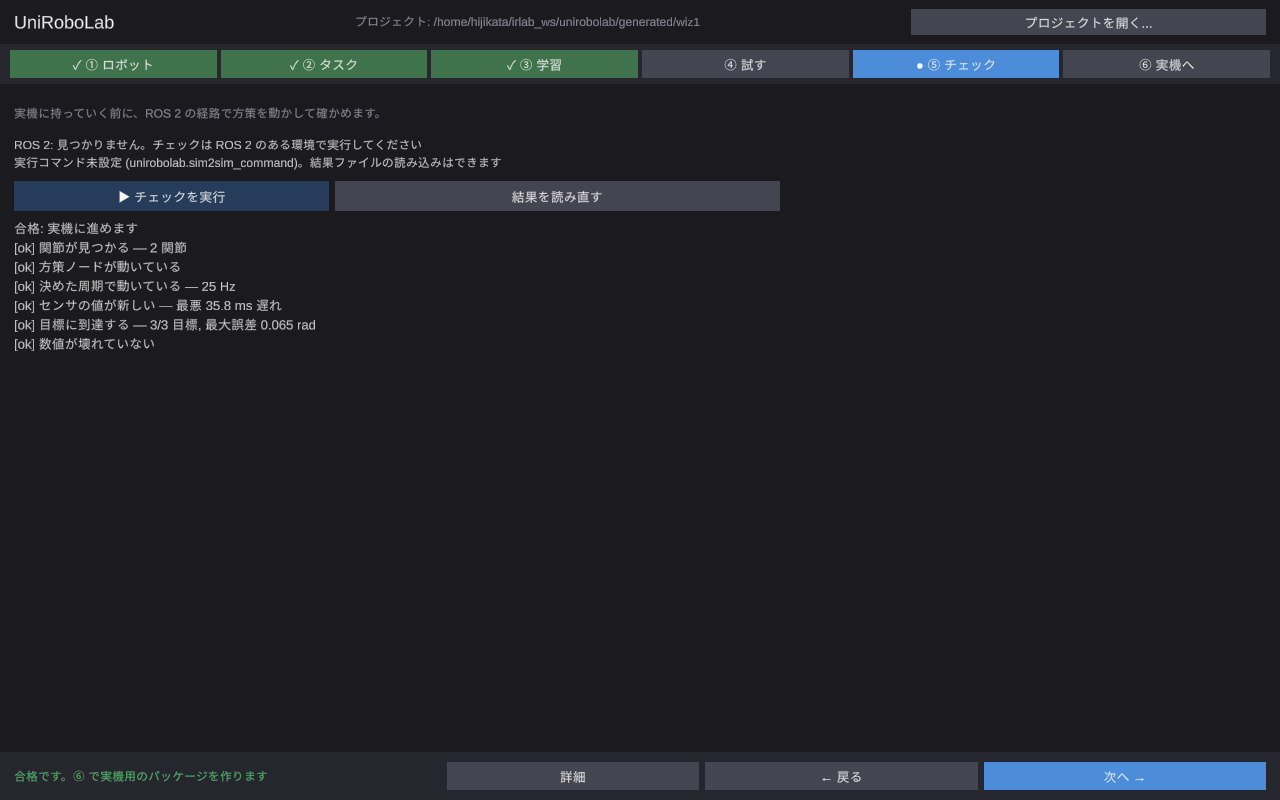
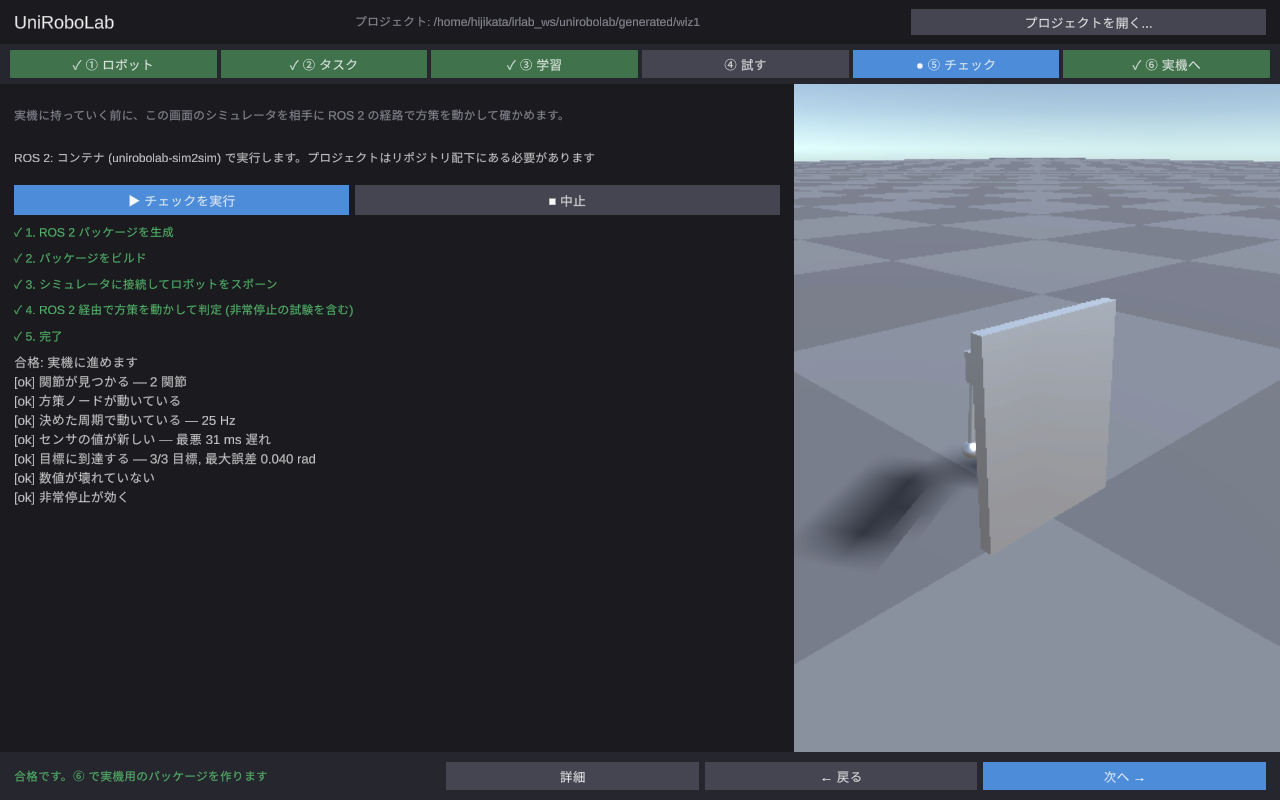
[add] ⑤ チェック画面: GUI のシミュレータを相手に ROS 2 側の 5 段階を進捗表示で実行、非常停止つきの結果表示
- ホストの ROS 2 かコンテナ (docker exec) で scripts/check_runner.sh を回し、##STEP 行を段階表示に
- 実行前に学習・試すで置いたロボットを消し、時間倍率を 1 に。スポーン後はカメラをロボットに向ける
- ROS 2 の検出が非同期なので状態行を追従。docker だけのときは「コンテナを起動」ボタン
- 画面: docs/images/wizard/w1〜w6 (ウィザード各フェーズ)

diff --git a/unity/UniRoboLab/Assets/UniRoboLab/Scripts/PhaseCheck.cs b/unity/UniRoboLab/Assets/UniRoboLab/Scripts/PhaseCheck.cs
@@ -1,32 +1,49 @@
+using System.Collections.Generic;
 using System.IO;
 using System.Text;
 using TMPro;
 using UnityEngine;
 using UnityEngine.UI;
 
-/// <summary>⑤ チェック (配備前): 平易なチェックリストと次の一手。実行は sim2sim (ROS 2 が要る)。</summary>
+/// <summary>
+/// ⑤ チェック (配備前): この GUI のシミュレータ自身を被検体に、ROS 2 の経路で方策を動かして判定する。
+/// ROS 側の手順 (scripts/check_runner.sh: パッケージ生成 → ビルド → スポーン → 方策ノード → 判定) は
+/// ホストの ROS 2 か、コンテナ (docker exec) で走らせ、"##STEP n/5" 行を段階表示にする。
+/// </summary>
 public class PhaseCheck : Phase
 {
     public override string Key => "check";
     public override string Title => Ui.T("⑤ チェック", "5 Check");
-    public override LabWizard.PreviewMode Preview => LabWizard.PreviewMode.Hidden;
+    public override LabWizard.PreviewMode Preview => LabWizard.PreviewMode.Side;
 
-    TMP_Text m_Env, m_List, m_Raw;
-    Button m_Run, m_Load;
-    ExternalProcess m_Check, m_Explain;
-    string m_ReportPath;
+    const string ContainerName = "unirobolab-sim2sim-jazzy";
+
+    TMP_Text m_Env, m_List, m_Raw, m_Log;
+    Button m_Run, m_Stop, m_Container;
+    readonly List<TMP_Text> m_Steps = new List<TMP_Text>();
+    ExternalProcess m_Runner, m_Explain, m_ContainerProc, m_RosProbe;
+    string m_OutDir, m_ReportPath;
+    float m_SavedScale = -1f;
+    string m_EnvShown = "";
+    readonly StringBuilder m_LogBuf = new StringBuilder();
+    static readonly string[] k_StepsJa = { "ROS 2 パッケージを生成", "パッケージをビルド", "シミュレータに接続してロボットをスポーン", "ROS 2 経由で方策を動かして判定 (非常停止の試験を含む)", "完了" };
+    static readonly string[] k_StepsEn = { "generate the ROS 2 package", "build the package", "connect to the simulator and spawn the robot", "run the policy through ROS 2 and judge (incl. e-stop test)", "done" };
 
     public override void Build(RectTransform main, RectTransform details)
     {
         Root = Ui.Column(main, "Check", 6f);
-        Ui.Label(Root.transform, Ui.T("実機に持っていく前に、ROS 2 の経路で方策を動かして確かめます。", "Before the real robot, run the policy through the ROS 2 path and check it."), 12f, Ui.Muted, true, 30f);
+        Ui.Label(Root.transform, Ui.T("実機に持っていく前に、この画面のシミュレータを相手に ROS 2 の経路で方策を動かして確かめます。", "Before the real robot, the policy is run through the ROS 2 path against this simulator."), 12f, Ui.Muted, true, 34f);
         m_Env = Ui.Label(Root.transform, "", 12f, Ui.Text, true, 40f);
         var r = Ui.Row(Root.transform, 32f);
         m_Run = Ui.Btn(r.transform, Ui.T("▶ チェックを実行", "▶ Run the check"), RunCheck, 0f, 30f); Ui.SetBtn(m_Run, null, Ui.BtnActive);
-        m_Load = Ui.Btn(r.transform, Ui.T("結果を読み直す", "Reload result"), () => LoadReport(m_ReportPath), 130f, 30f);
-        m_List = Ui.Label(Root.transform, "", 13f, Ui.Text, true, 260f); m_List.alignment = TextAlignmentOptions.TopLeft;
+        m_Stop = Ui.Btn(r.transform, Ui.T("■ 中止", "■ Abort"), Abort, 90f, 30f);
+        m_Container = Ui.Btn(r.transform, Ui.T("コンテナを起動", "Start container"), StartContainer, 140f, 30f); m_Container.gameObject.SetActive(false);
+        for (int i = 0; i < 5; i++) m_Steps.Add(Ui.Label(Root.transform, "", 12f, Ui.Muted, false, 20f));
+        m_List = Ui.Label(Root.transform, "", 13f, Ui.Text, true, 230f); m_List.alignment = TextAlignmentOptions.TopLeft;
         Ui.Spacer(Root.transform);
         DetailsRoot = Ui.Column(details, "CheckDetails", 4f);
+        Ui.Label(DetailsRoot.transform, Ui.T("実行ログ", "Runner log"), 12f, Ui.Muted);
+        m_Log = Ui.Label(DetailsRoot.transform, "", 10f, Ui.Text, true, 150f); m_Log.alignment = TextAlignmentOptions.BottomLeft;
         Ui.Label(DetailsRoot.transform, "report.json", 12f, Ui.Muted);
         m_Raw = Ui.Label(DetailsRoot.transform, "", 10f, Ui.Text, true, 0f); m_Raw.GetComponent<LayoutElement>().flexibleHeight = 1f; m_Raw.alignment = TextAlignmentOptions.TopLeft;
     }
@@ -35,45 +52,147 @@ public class PhaseCheck : Phase
 
     public override void Enter()
     {
-        m_ReportPath = string.IsNullOrEmpty(P.D.report) ? Path.Combine(P.Dir, "sim2sim_out", "report.json") : P.Abs(P.D.report);
-        string ros = Env.Ros2 switch
-        {
-            "host" => Ui.T("ROS 2: この PC で使えます", "ROS 2: available on this machine"),
-            "container" => Ui.T("ROS 2: コンテナ (unirobolab-sim2sim) で代用します", "ROS 2: via the unirobolab-sim2sim container"),
-            "docker-only" => Ui.T("ROS 2: 無し。コンテナは未起動 (scripts/sim2sim_container.sh start)", "ROS 2: none; container not running (scripts/sim2sim_container.sh start)"),
-            _ => Ui.T("ROS 2: 見つかりません。チェックは ROS 2 のある環境で実行してください", "ROS 2: not found; run the check where ROS 2 is available"),
-        };
-        string cmd = UniRoboLabConfig.Data.sim2sim_command;
-        m_Env.text = ros + (string.IsNullOrEmpty(cmd) ? Ui.T("\n実行コマンド未設定 (unirobolab.sim2sim_command)。結果ファイルの読み込みはできます", "\nsim2sim_command not set; results can still be loaded") : "");
-        m_Run.interactable = !string.IsNullOrEmpty(cmd);
-        if (File.Exists(m_ReportPath)) LoadReport(m_ReportPath); else m_List.text = Ui.T("(まだ結果がありません)", "(no result yet)");
+        m_OutDir = Path.Combine(P.Dir, "sim2sim_out");
+        m_ReportPath = Path.Combine(m_OutDir, "report.json");
+        RefreshEnv();
+        ResetSteps();
+        if (File.Exists(m_ReportPath) && P.Exists("report")) LoadReport(); else m_List.text = Ui.T("(まだ結果がありません)", "(no result yet)");
         if (P.IsStale("report")) m_List.text = Ui.T("! 契約か方策が変わっています。チェックし直してください\n", "! the contract or the policy changed; check again\n") + m_List.text;
-        W.Status(Ui.T("チェックを実行するか、結果を読み込んでください", "Run the check or load a result"));
+        W.Status(Ui.T("「チェックを実行」を押してください", "Press Run the check"));
+    }
+
+    void RefreshEnv()
+    {
+        bool canRun = Env.Ros2 == "host" || Env.Ros2 == "container";
+        m_Env.text = Env.Ros2 switch
+        {
+            "host" => Ui.T("ROS 2: この PC で実行します", "ROS 2: runs on this machine"),
+            "container" => Ui.T("ROS 2: コンテナ (unirobolab-sim2sim) で実行します。プロジェクトはリポジトリ配下にある必要があります", "ROS 2: runs in the unirobolab-sim2sim container (the project must be inside the repository)"),
+            "docker-only" => Ui.T("ROS 2: 無し。コンテナを起動すると実行できます (初回はイメージの取得に時間がかかります)", "ROS 2: none; start the container to run the check (first start pulls the image)"),
+            _ => Ui.T("ROS 2 も Docker も見つかりません。チェックは ROS 2 のある環境で実行してください", "Neither ROS 2 nor Docker found; run the check where ROS 2 is available"),
+        };
+        m_Env.color = canRun ? Ui.Text : Ui.Warn;
+        m_Run.interactable = canRun && (m_Runner == null || m_Runner.HasExited);
+        m_Container.gameObject.SetActive(Env.Ros2 == "docker-only");
+    }
+
+    void ResetSteps()
+    {
+        for (int i = 0; i < 5; i++) { m_Steps[i].text = $"   {i + 1}. " + (Ui.Japanese ? k_StepsJa[i] : k_StepsEn[i]); m_Steps[i].color = Ui.Muted; }
+    }
+
+    /// <summary>コンテナにはホストと同じパスでリポジトリのリンクがある (sim2sim_container.sh start) ので、
+    /// パスは読み替えない。スポーンの URDF はシミュレータ (ホスト) が開くので、ホストのパスでなければならない。</summary>
+    string ToRunner(string hostPath)
+    {
+        if (Env.Ros2 != "container") return hostPath;
+        string root = Env.RepoRoot.TrimEnd('/');
+        return hostPath.StartsWith(root) ? hostPath : null;
     }
 
     void RunCheck()
     {
-        string cmd = UniRoboLabConfig.Data.sim2sim_command;
-        if (string.IsNullOrEmpty(cmd) || (m_Check != null && !m_Check.HasExited)) return;
-        string pkg = Path.GetFileName(P.Abs(P.D.deploy_dir).TrimEnd('/'));
-        var full = new StringBuilder(cmd).Append(' ').Append(ExternalProcess.Quote(P.Abs(P.D.contract)));
-        if (!string.IsNullOrEmpty(pkg)) full.Append(" --pkg ").Append(ExternalProcess.Quote(pkg));
-        full.Append(" --out ").Append(ExternalProcess.Quote(Path.GetDirectoryName(m_ReportPath))).Append(" 2>&1");
-        m_Check = W.Launch(full.ToString());
-        W.Status(Ui.T("チェックを実行中 (数分かかります)...", "running the check (takes a few minutes)..."));
+        if (m_Runner != null && !m_Runner.HasExited) return;
+        string contract = ToRunner(P.Abs(P.D.contract)), onnx = ToRunner(P.OnnxPath), urdf = ToRunner(P.Abs(P.D.urdf)), task = ToRunner(P.Abs(P.D.task)), outDir = ToRunner(m_OutDir);
+        if (contract == null || onnx == null || urdf == null || outDir == null)
+        {
+            W.Status(Ui.T("コンテナからはリポジトリ配下のプロジェクトだけ実行できます: ", "the container can only reach projects inside the repository: ") + P.Dir, Ui.Warn); return;
+        }
+        // 被検体はこのシミュレータ: 学習/試す で置いたロボットを消し、実時間に戻す
+        var buf = new List<GameObject>(); W.Sim.GetEntitiesSnapshot(buf);
+        foreach (GameObject e in buf) if (e != null) W.Sim.TryDeleteEntityByName(e.name);
+        if (m_SavedScale < 0f) { m_SavedScale = SimulationControl.ConfiguredTimeScale; SimulationControl.ConfiguredTimeScale = 1f; if (Time.timeScale > 1f) Time.timeScale = 1f; }
+        string ns = string.IsNullOrEmpty(P.D.ns) ? "robot" : P.D.ns;
+        string envs = $"CONTRACT={ExternalProcess.Quote(contract)} ONNX={ExternalProcess.Quote(onnx)} URDF={ExternalProcess.Quote(urdf)} TASK={ExternalProcess.Quote(task ?? "")} OUT={ExternalProcess.Quote(outDir)} NS={ExternalProcess.Quote(ns)}";
+        string cmd = Env.Ros2 == "container"
+            ? $"docker exec {ContainerName} env {envs} bash {ExternalProcess.Quote(Path.Combine(Env.RepoRoot, "scripts", "check_runner.sh"))} 2>&1"
+            : $"env {envs} bash {ExternalProcess.Quote(Path.Combine(Env.RepoRoot, "scripts", "check_runner.sh"))} 2>&1";
+        m_LogBuf.Clear(); ResetSteps(); m_List.text = "";
+        m_Runner = W.Launch(cmd);
+        m_Run.interactable = false;
+        W.Status(Ui.T("チェックを実行しています (1〜2 分)...", "running the check (1-2 minutes)..."));
+        Debug.Log("[Wizard/check] " + cmd);
     }
 
-    void LoadReport(string path)
+    void Abort()
     {
-        if (!File.Exists(path)) return;
-        m_Raw.text = File.ReadAllText(path);
+        if (m_Runner == null) return;
+        m_Runner.Stop(null, 1000); m_Runner = null; RestoreScale(); m_Run.interactable = true;
+        W.Status(Ui.T("中止しました", "aborted"), Ui.Warn);
+    }
+
+    /// <summary>ROS 経由でスポーンされたロボットにカメラを向ける。</summary>
+    void FrameOnRobot()
+    {
+        var cam = Camera.main != null ? Camera.main.GetComponent<LabCamera>() : null;
+        if (cam == null) return;
+        var buf = new List<GameObject>(); W.Sim.GetEntitiesSnapshot(buf);
+        foreach (GameObject e in buf)
+        {
+            if (e == null) continue;
+            var rs = e.GetComponentsInChildren<Renderer>(); if (rs.Length == 0) continue;
+            Bounds b = rs[0].bounds; foreach (Renderer r in rs) b.Encapsulate(r.bounds);
+            cam.target = b.center; cam.distance = Mathf.Max(0.8f, b.extents.magnitude * 3f);
+            return;
+        }
+    }
+
+    void RestoreScale() { if (m_SavedScale >= 0f) { SimulationControl.ConfiguredTimeScale = m_SavedScale; m_SavedScale = -1f; } }
+
+    void StartContainer()
+    {
+        if (m_ContainerProc != null && !m_ContainerProc.HasExited) return;
+        m_ContainerProc = W.Launch($"bash {ExternalProcess.Quote(Path.Combine(Env.RepoRoot, "scripts", "sim2sim_container.sh"))} start 2>&1");
+        W.Status(Ui.T("コンテナを起動しています...", "starting the container..."));
+    }
+
+    void LoadReport()
+    {
+        if (!File.Exists(m_ReportPath)) return;
+        m_Raw.text = File.ReadAllText(m_ReportPath);
         m_Explain?.Stop();
-        m_Explain = W.Launch($"{W.Py} -m unirobolab explain-report {ExternalProcess.Quote(path)} --lang {(Ui.Japanese ? "ja" : "en")} 2>&1");
+        m_Explain = W.Launch($"{W.Py} -m unirobolab explain-report {ExternalProcess.Quote(m_ReportPath)} --lang {(Ui.Japanese ? "ja" : "en")} 2>&1");
     }
 
     public override void Tick()
     {
-        if (m_Check != null) { string last = null; while (m_Check.TryDequeue(out string l)) last = l; if (last != null) W.Status(last); if (m_Check.HasExited) { m_Check = null; LoadReport(m_ReportPath); } }
+        if (Env.Ros2 != m_EnvShown) { m_EnvShown = Env.Ros2; RefreshEnv(); }   // 起動時の検出は非同期
+        if (m_Runner != null)
+        {
+            while (m_Runner.TryDequeue(out string l))
+            {
+                m_LogBuf.AppendLine(l); if (m_LogBuf.Length > 5000) m_LogBuf.Remove(0, 2000);
+                if (l.StartsWith("##STEP "))
+                {
+                    string rest = l.Substring(7); int n = rest.Length > 0 && char.IsDigit(rest[0]) ? rest[0] - '0' : 0;
+                    for (int i = 0; i < 5; i++) { if (i < n - 1) { m_Steps[i].text = $"✓ {i + 1}. " + (Ui.Japanese ? k_StepsJa[i] : k_StepsEn[i]); m_Steps[i].color = Ui.Accent; } else if (i == n - 1) { m_Steps[i].text = $"● {i + 1}. " + (Ui.Japanese ? k_StepsJa[i] : k_StepsEn[i]); m_Steps[i].color = Ui.Header; } }
+                    W.Status(rest);
+                    if (n == 4) FrameOnRobot();
+                    if (Application.isBatchMode) Debug.Log("[Wizard/check] " + l);
+                }
+                else if (l.StartsWith("##FAIL ")) { W.Status(l.Substring(7), Ui.Bad); if (Application.isBatchMode) Debug.Log("[Wizard/check] " + l); }
+            }
+            if (m_Log != null) m_Log.text = m_LogBuf.ToString();
+            if (m_Runner.HasExited)
+            {
+                int code = m_Runner.ExitCode; m_Runner = null; RestoreScale(); m_Run.interactable = true;
+                if (File.Exists(m_ReportPath))
+                {
+                    for (int i = 0; i < 5; i++) { m_Steps[i].text = $"✓ {i + 1}. " + (Ui.Japanese ? k_StepsJa[i] : k_StepsEn[i]); m_Steps[i].color = Ui.Accent; }
+                    LoadReport();
+                }
+                else if (code != 0) W.Status(Ui.T("チェックを実行できませんでした。「詳細」のログを見てください", "the check could not run; see the log under Details"), Ui.Bad);
+            }
+        }
+        if (m_ContainerProc != null && m_ContainerProc.HasExited)
+        {
+            m_ContainerProc = null; m_RosProbe = W.Launch(Env.Ros2CheckCommand());
+        }
+        if (m_RosProbe != null && m_RosProbe.HasExited)
+        {
+            m_RosProbe.WaitForExit(); string last = "none"; while (m_RosProbe.TryDequeue(out string l)) last = l.Trim(); Env.Ros2 = last; m_RosProbe = null; RefreshEnv();
+            W.Status(Env.Ros2 == "container" ? Ui.T("コンテナが動いています", "container is running") : Ui.T("コンテナを起動できませんでした", "could not start the container"), Env.Ros2 == "container" ? Ui.Accent : Ui.Bad);
+        }
         if (m_Explain != null && m_Explain.HasExited)
         {
             m_Explain.WaitForExit(); var sb = new StringBuilder(); while (m_Explain.TryDequeue(out string l)) sb.AppendLine(l);
@@ -82,11 +201,13 @@ public class PhaseCheck : Phase
             P.D.report = P.Rel(m_ReportPath); if (pass) P.Stamp("report"); P.Save(); W.RefreshStepper();
             if (Application.isBatchMode) foreach (string l in m_List.text.Split('\n')) Debug.Log("[Wizard/check] " + l);
             W.Status(pass ? Ui.T("合格です。⑥ で実機用のパッケージを作ります", "Passed. Build the package for the real robot in step 6") : Ui.T("不合格。次の一手を見てください", "Failed; see the next steps"), pass ? Ui.Accent : Ui.Warn);
+            if (pass) W.TriggerDoneShots();
         }
     }
 
-    public override bool CanProceed(out string reason) { reason = ""; return true; }   // 不合格でも警告つきで ⑥ へ行ける
+    public override bool CanProceed(out string reason) { reason = ""; return true; }
     public override bool Done() => P.Exists("report") && !P.IsStale("report") && P.D.stamp_keys.Contains("report");
     public override bool Stale() => P.IsStale("report");
-    public override void Action(string name) { if (name == "check") RunCheck(); else if (name == "load") LoadReport(m_ReportPath); }
+    public override void Leave() { RestoreScale(); }
+    public override void Action(string name) { if (name == "check") RunCheck(); else if (name == "load") LoadReport(); }
 }
